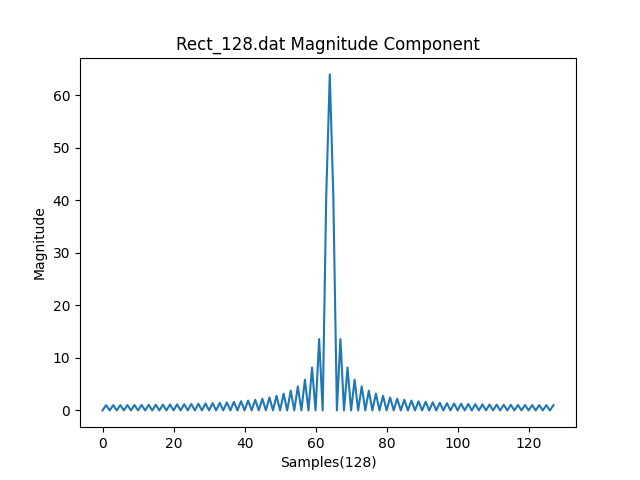
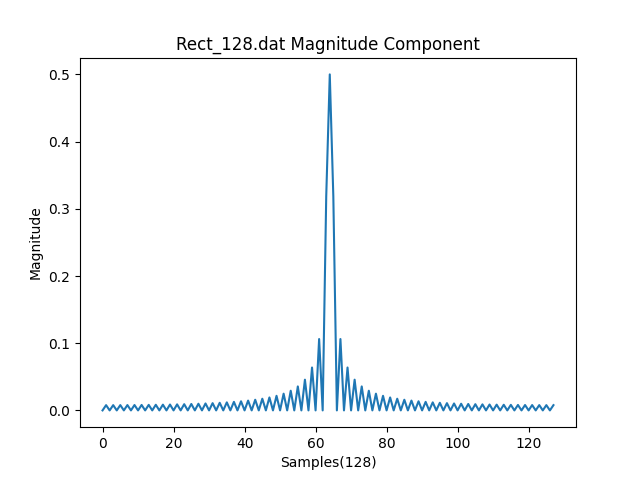
Added Normalization step, fixed fft

diff --git a/Exp1.py b/Exp1.py
@@ -6,7 +6,7 @@ import numpy as np
 def fft(data, nn, isign):
     n = nn
     data = np.array(data, dtype=complex) #For imaginary numbers
-
+    
     if isign == -1:  #Forward FFT
         if n > 1:
             evenPoints = fft(data[0::2], n // 2, isign) #Recursive split of data points for even
@@ -14,8 +14,8 @@ def fft(data, nn, isign):
 
             w = np.exp(-2j * np.pi * np.arange(n) / n) # e^(-2pij * k/N)
             half = n // 2   #Truncate decimals
-
-            return np.concatenate([evenPoints + w[:half] * oddPoints, evenPoints + w[half:] * oddPoints])
+            
+            return np.concatenate([evenPoints + w[:half] * oddPoints, evenPoints + w[half:] * oddPoints]) 
         else:
             return data
     
@@ -23,8 +23,7 @@ def fft(data, nn, isign):
         data = np.conj(data)        #Perform Complex conjugate 
         result = fft(data, nn, -1)  #Recall FFT
 
-        result = np.round(np.conj(result) / n, 10) #Normalize with N, round to 10 so we get our original data back in our real numbers
-
+        result.imag = np.round(result.imag, 10)
         return result
     
 def plotDFT(data, title, xlabel, ylabel, filename):
@@ -44,16 +43,17 @@ def partA():
     data = [2, 3, 4, 4]
     nn = len(data)
 
+    data = np.array(data) / nn     #Normalize
     forward = fft(data, nn, -1)    #For FFT
     magnitude = np.abs(forward)
-    #print("Data going in:", data)    
-    #print("Data after fft:", forward)
-    #print("Magnitude of the DFT:", magnitude)
+    print("Data going in:", data)    
+    print("Data after fft:", forward)
+    print("Magnitude of the DFT:", magnitude)
 
     #Plot DFT components REAL, IMAGINARY, and MAGNITUDE
-    plotDFT(forward.real, "FFT Real Component", "Index", "Real", "fftReal")
-    plotDFT(forward.imag, "FFT Imaginary Component", "Index", "Imaginary", "fftImaginary")
-    plotDFT(magnitude, "FFT Manitude", "Index", "Manitude", "fftManitude")
+    # plotDFT(forward.real, "FFT Real Component", "Index", "Real", "fftReal")
+    # plotDFT(forward.imag, "FFT Imaginary Component", "Index", "Imaginary", "fftImaginary")
+    # plotDFT(magnitude, "FFT Manitude", "Index", "Manitude", "fftManitude")
     inverse = fft(forward, nn, 1)    #For IFFT
     print("Data after ifft:", inverse)
 
@@ -66,12 +66,13 @@ def partB():
     #Verify that we have a cosine wave:
     plotDFT(cosWave, "Original Cosine Wave", "Samples(128)", "Amplitude", "originalCos")
 
+    cosWave = np.array(cosWave) / nn    #Normalize
     #Compute fft of cosine wave
     forward = fft(cosWave, nn, -1)
 
     #Verify that we get the same wave back:
     inverse = fft(forward, nn, 1)
-    plotDFT(inverse.real, "Inverse Cosine Wave", "Samples(128", "Amplitude", "inverseCos")
+    plotDFT(inverse.real, "Inverse Cosine Wave", "Samples(128)", "Amplitude", "inverseCos")
 
     #Shift the magnitude to center of frequency domain:
     forward = magShift(forward)
@@ -98,6 +99,7 @@ def partC():
     #Verify that we have the data from Rect_128:
     plotDFT(rect, "Original Rect_128.dat", "Samples(128)", "Value", "originalRectPlot")
 
+    rect = np.array(rect) / nn  #Normalize
     #Compute fft of Rect_128
     forward = fft(rect, nn, -1)
 
